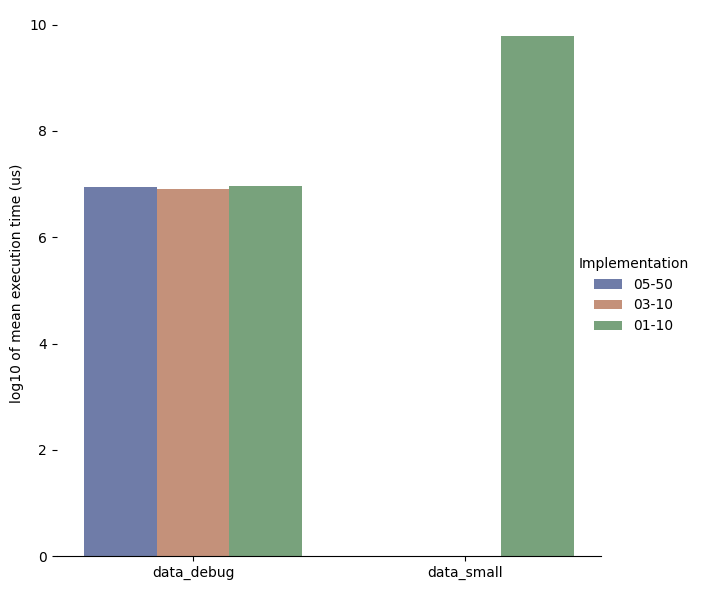
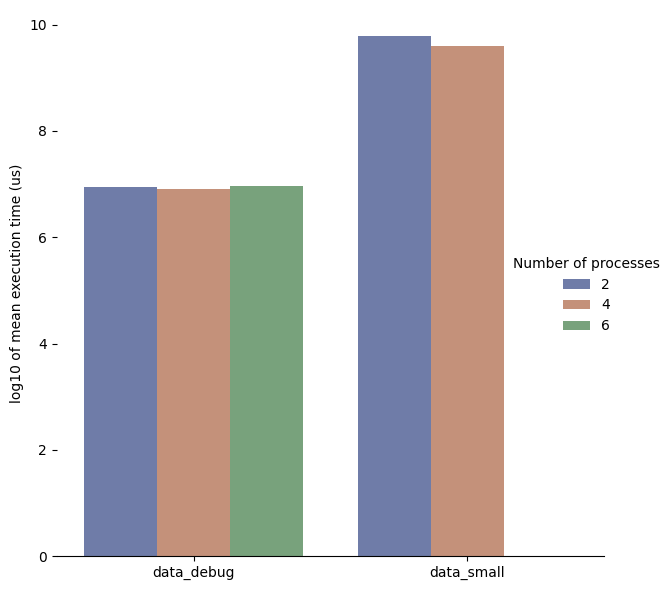
Changed Graph to show number of processes

diff --git a/results/benchmark_np.py b/results/benchmark_np.py
@@ -56,12 +56,12 @@ def main():
     dataframe['exec_time_us_log'] = np.log10(dataframe['exec_time'] * 1e9)
     g = sns.catplot(
         data=dataframe, kind="bar",
-        x="dataset", y="exec_time_us_log", hue="impl_name",
+        x="dataset", y="exec_time_us_log", hue="np",
         palette="dark", alpha=.6, height=6
     )
     g.despine(left=True)
     g.set_axis_labels("", "log10 of mean execution time (us)")
-    g.legend.set_title("Implementation")
+    g.legend.set_title("Number of processes")
     g.savefig(os.path.join(parent_folder,"benchmark_np.png"))
     
     
